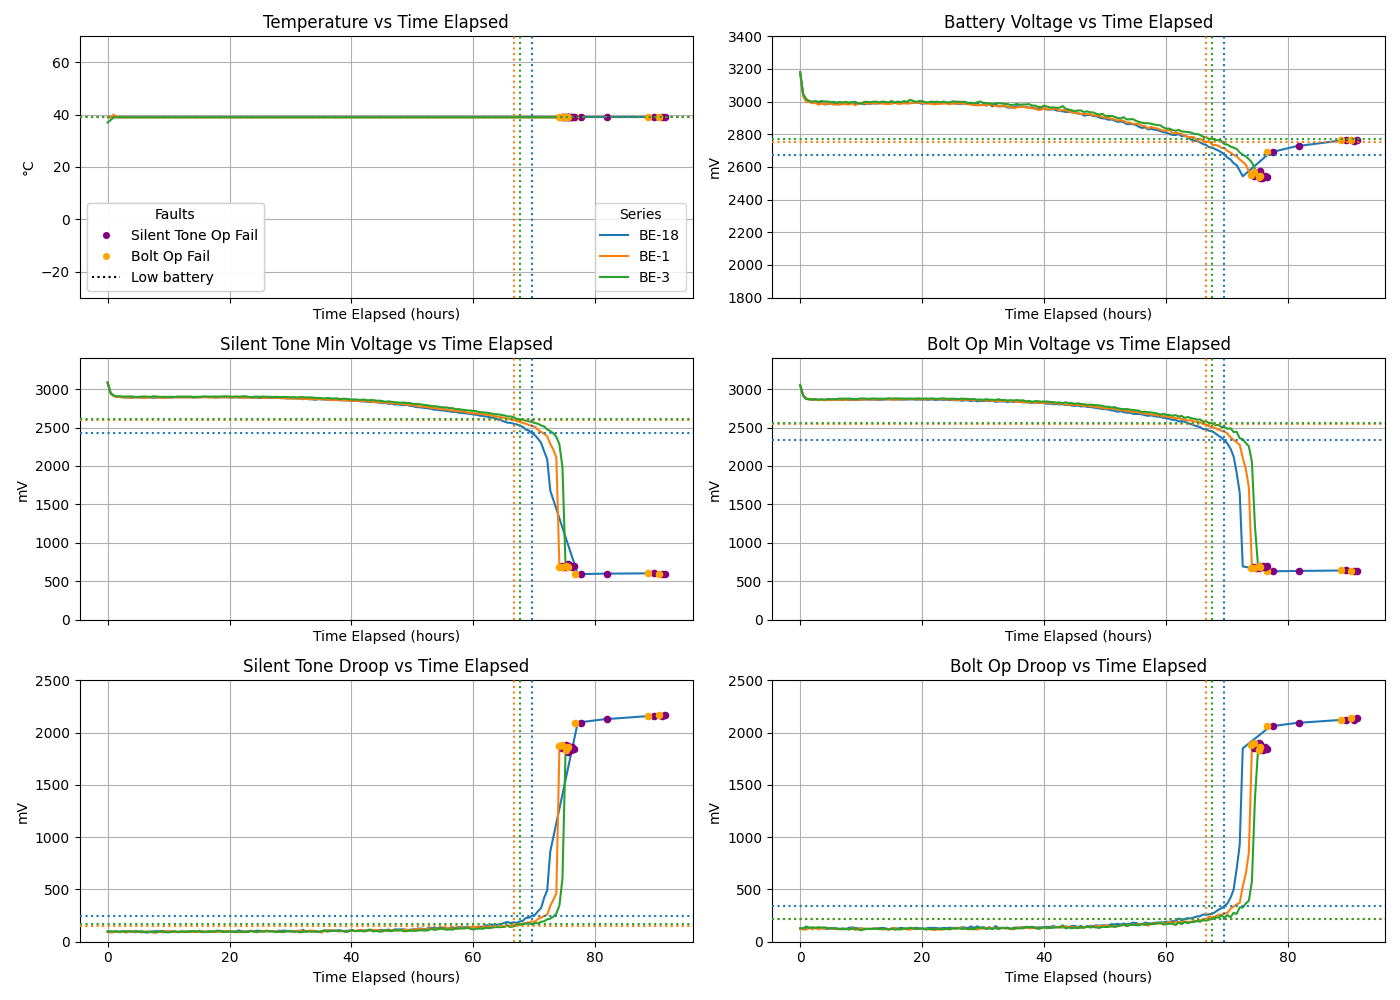
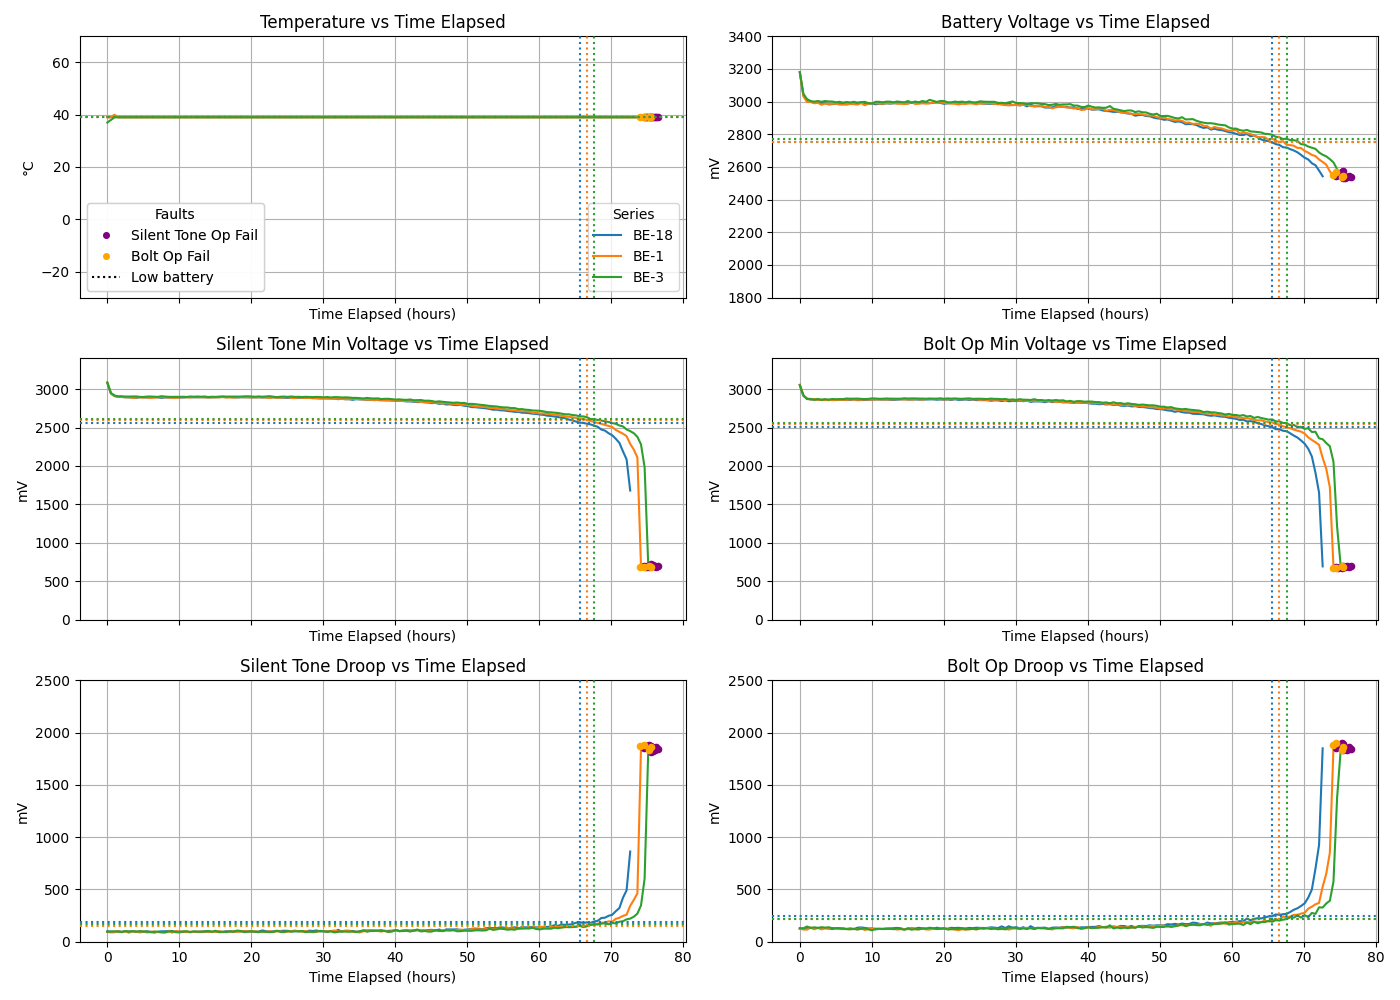
level 40c

diff --git a/plot_folder.py b/plot_folder.py
@@ -6,7 +6,7 @@ import numpy as np  # NEW
 from matplotlib.lines import Line2D
 
 # CONFIGURATION
-CSV_DIR = "csvs/manufacturers-cross-temp/temp-20c/enegitech"
+CSV_DIR = "csvs/manufacturers-cross-temp/temp-40c/level"
 CSV_TAG = os.path.basename(os.path.normpath(CSV_DIR))
 PLOT_OUTPUT = f"plots/compare_all_{CSV_DIR.replace("/", "-")}.png"
 COMPUTE_LOW_BATT_BY_ALL_FAULTS=True
